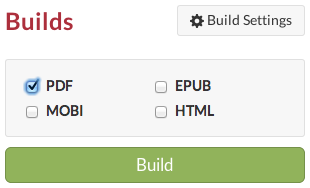
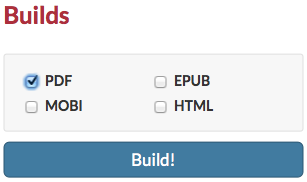
updating getting started boilerplate

diff --git a/GETTING-STARTED.html b/GETTING-STARTED.html
@@ -1,41 +1,34 @@
 <section data-type="chapter">
 <h1>Quick Start Guide</h1>
 
-<p>Atlas is currently in its Alpha release; this means that, while we feel the system is ready to be used, it's still actively under development and needs some rigorous testing. That's where you come in! Here are the most important things you need to know to get started.</p>
+<p>Atlas is currently in its Beta release; this means that, while we feel the system is ready to be used, it's still actively under development and needs some rigorous testing. That's where you come in! Here are the most important things you need to know to get started.</p>
 
 <section data-type="sect1">
-<h1>Atlas (Alpha Release) Is Built on GitHub</h1>
+<h1>Atlas (Beta Release) Is Built on Git</h1>
 
-<p>The&nbsp;alpha version of Atlas is built on <a data-original-title="" href="http://github.com" title="">GitHub</a>, one of the leading websites for collaborative file management using the <a data-original-title="" href="http://git-scm.com/" title="">git</a> version-control system. What this means for you is:</p>
-
-<ul>
-	<li><strong>You need a GitHub account</strong> in order to use Atlas (but if you've logged into Atlas by now, then you know this already).</li>
-	<li>You can see <strong>all your personal GitHub repos</strong> in Atlas, as well as all the repos you have permission to access within any organizations.</li>
-	<li><strong>All changes you make in Atlas will be reflected in GitHub, and vice versa.</strong></li>
-	<li>
-	<p><strong>You can use <a data-original-title="" href="http://git-scm.com/book/en/Git-Branching-Basic-Branching-and-Merging" title="">branches</a> in Atlas.</strong> On the project dashboard, select the branch you want to edit from the dropdown menu. (However, you cannot currently create new branches through Atlas.)</p>
-
-	<figure><img alt="Alt Text" class="icontentsimagesbranchespng" src="images/branches.png" /> <figcaption>The branches dropdown menu shows all existing branches of your project.</figcaption></figure>
-	</li>
-</ul>
+<p>The beta version of Atlas is built on <a data-original-title="" href="http://github.com" title="">Git</a>, the powerful version control system that tracks every change in your content, who made it, and when it happened. What this means is that your content is secure and can be rolled back to any previous version if necessary. Git also provides the functionality for seamless collaboration tools (coming soon!).</p>
 </section>
 
 <section data-type="sect1">
 <h1>Your Projects</h1>
 
-<p>When you sign into Atlas, <strong>the first thing you'll see is a list of all your existing GitHub repos</strong>. If you want to edit or build from an existing project in GitHub, simply find and click the project in the list. To <strong>create a new project</strong>, click the New Project button to the right of the projects list.</p>
+<p>When you sign into Atlas, <strong>the first thing you'll see is a list of all your existing projects</strong>. If you want to edit or build from an existing project, simply find and click the project in the list. To <strong>create a new project</strong>, click the New Project button to the right of the projects list.</p>
 
-<figure><img alt="Alt Text" class="icontentsimagesnewprojpng" src="images/newproj.png" /> <figcaption>Click the New Project button in your project list to start fresh.</figcaption></figure>
+<figure><img alt="Alt Text" class="icontentsimagesnewprojpng" src="images/newproj.png" />
+<figcaption>Click the New Project button in your project list to start fresh.</figcaption>
+</figure>
 
-<p>When you create a new project, <strong>Atlas will create a new <a href="http://en.wikipedia.org/wiki/Repository_(version_control)">repo</a> in your GitHub account</strong>, prepopulated with some skeleton files to help you get started. You can edit those files, delete them, or just ignore them completely and create brand-new files of your own.</p>
+<p>If you want to start from scratch, you can define the title and description for your project and choose a project template to pre-populate your new repository with some skeleton files based on the kind of project you&rsquo;re making.</p>
 
-<p>Once you select a project or create a new one, <strong>you'll be taken to the project dashboard</strong>, where you'll see a list of all files in the project, and have access to the <a data-type="xref" href="#building_in_atlas">ebook-building tools</a>.</p>
+<p>You can also create a new Atlas project by importing an existing project from GitHub or by taking advantage of Atlas&rsquo; conversion services (if included in your pilot agreement).</p>
+
+<p>Once you select a project or create a new one, <strong>you'll be taken to the project dashboard</strong>, where you'll see a list of all files in the project, and have access to the <a data-original-title="" data-type="xref" href="#building_in_atlas" title="">ebook-building tools</a>.</p>
 </section>
 
 <section data-type="sect1">
 <h1>The Project Dashboard</h1>
 
-<p><strong>The project dashboard is your landing page for each project.</strong> It lists all the files and folders in your repo, lets you switch branches, and gives you quick access to the build tools (more on building <a data-type="xref" href="#building_in_atlas">below</a>).</p>
+<p><strong>The project dashboard is your landing page for each project.</strong> It lists all the files and folders in your project and gives you quick access to the build tools (more on building <a data-type="xref" href="#building_in_atlas">below</a>).</p>
 
 <p>From the project dashboard, your next steps will likely be either to start writing or to build your project. <strong>Click a file in your Files pane at left to open it in the editor.</strong> For more about building, <a data-type="xref" href="#building_in_atlas">see below</a>.</p>
 </section>
@@ -45,7 +38,7 @@
 
 <p><strong>The Atlas editor has <a data-original-title="" data-type="xref" href="#editingenvironments" title="">two writing modes</a></strong>: the Visual Editor and the Code Editor. The Visual Editor&nbsp;is an&nbsp;online authoring environment similar to a word processor, with&nbsp;a formatting toolbar&nbsp;for tagging and styling your content. Documents created in the Visual Editor are stored as <a href="http://en.wikipedia.org/wiki/HTML5">HTML5</a>. The Code Editor allows you to view and edit the underlying HTML5 markup for your document. You can toggle back and forth between the Visual and Code Editors, and changes you make in either mode will immediately be reflected in the other.</p>
 
-<p>While <strong>HTML5 is the default markup language for Atlas content</strong>, Atlas also supports documents written in<strong style="line-height: 1.5em;">&nbsp;<a data-original-title="" data-type="xref" href="#markdownref" title="">Markdown</a>, <a href="http://www.methods.co.nz/asciidoc/">AsciiDoc</a>, and <a href="http://www.docbook.org/">DocBook XML</a></strong><span style="line-height: 1.5em;">. All three of these formats can be edited using the Code Editor.</span></p>
+<p>While <strong>HTML5 is the default markup language for Atlas content</strong>, Atlas also supports documents written in<strong style="line-height: 1.5em;">&nbsp;<a data-original-title="" data-type="xref" href="#markdownref" title="">Markdown</a>, <a href="http://www.methods.co.nz/asciidoc/">AsciiDoc</a>, and <a data-original-title="" href="http://www.docbook.org/" title="">DocBook XML</a></strong><span style="line-height: 1.5em;">. All three of these formats can be edited using the Code Editor.</span></p>
 
 <p>In both writing modes, you can <strong>navigate among&nbsp;your files using&nbsp;the Files menu</strong> to the left of the screen, <strong>create and delete files</strong> <strong>and folders</strong>,<strong> <a data-original-title="" data-type="xref" href="#addingimages" title="">upload images</a></strong>, <strong>save your project</strong> (top-right button in the editor, or use the keyboard shortcut ⌘-s/Ctrl+s)&nbsp;and even attach a <strong>custom commit message</strong> to each save (hover over the Save button to open the commit message dialog box).</p>
 </section>
@@ -53,7 +46,7 @@
 <section data-type="sect1">
 <h1>Creating a New File</h1>
 
-<p>To create a new file, open the editor (by clicking an existing file), open the Files menu, and click the New File button at bottom left. Give your file a name, and hit Enter.&nbsp;</p>
+<p>To create a new file, click the New File button at bottom of the dashboard. Give your file a name, and hit Enter. You can also do this in the Files pane in the editor.</p>
 
 <p>You can also organize your files into folders. To add a folder, click the New Folder button (next to the New File button). You can then click the folder name in the Files menu to open the folder&nbsp;and create new files within it.</p>
 
@@ -69,7 +62,7 @@
 
 <p>When you're finished writing, it's time to build your project so you can share it with the world. <strong>Atlas lets you export your project in <a data-original-title="" data-type="xref" href="#outputformats" title="">four different formats</a></strong>: <a data-original-title="" data-type="xref" href="#formatspdf" title="">PDF</a>, <a data-original-title="" data-type="xref" href="#formatsepub" title="">EPUB</a>, <a data-original-title="" data-type="xref" href="#formatsmobi" title="">MOBI</a>, and <a data-original-title="" data-type="xref" href="#formatshtml" title="">HTML website</a>.</p>
 
-<p>The first time you&nbsp;build, you'll need to choose what formats to build, and what files and settings you want to apply to each format. <strong>Click Build Settings</strong> on the project dashboard to go to the Build Settings page.</p>
+<p>The first time you&nbsp;build, you'll need to choose what formats to build, and what files and settings you want to apply to each format; <strong>click Configure</strong> on the project dashboard.</p>
 
 <p>Every format has <a data-type="xref" href="#building">a few different options</a> you can choose. Two options that are common for all formats are:</p>
 
@@ -78,11 +71,13 @@
 	<li>Collect all index tags you've added and&nbsp;create an <strong>alphabetical index</strong> in your built project. <a data-type="xref" href="#index" title="">Learn more here</a>.</li>
 </ul>
 
-<p>Choose a theme for your project (more on that next). Then at the bottom of the Build Settings page, <strong>choose which files to add to the build</strong>, drag the files into the correct order, and then start the build. If the build is successful, you'll get a link to download the file. If it fails, you'll get information about what went wrong (the usual culprit is markup errors).</p>
+<p>Choose a theme for your project (more on that next). Then at the bottom of the Configure page, <strong>choose which files to add to the build</strong>, drag the files into the correct order, and then click save. Now you can build from the dashboard.</p>
 
-<p>For subsequent builds, you can <strong>use the Quick Build tools from your project dashboard</strong>. Choose the formats you want to build, and Atlas will automatically use the same settings you initially chose on the Build Settings page.</p>
+<p>If the build is successful, you'll get a link to download the file. If it fails, you'll get information about what went wrong (the usual culprit is markup errors).</p>
 
-<figure><img alt="Alt Text" class="icontentsimagesquickbuildspng" src="images/quickbuilds.png" /> <figcaption>The Builds menu on the project dashboard allows you to quickly trigger a build using your previously chosen settings.</figcaption></figure>
+<figure><img alt="Alt Text" class="icontentsimagesquickbuildspng" src="images/quickbuilds.png" />
+<figcaption>The Builds menu on the project dashboard allows you to quickly trigger a build using your previously chosen settings.</figcaption>
+</figure>
 </section>
 
 <section data-type="sect1">
@@ -90,15 +85,17 @@
 
 <p>All of the Atlas output formats (PDF, EPUB, MOBI, and HTML) are powered by <a href="http://en.wikipedia.org/wiki/Cascading_Style_Sheets">CSS</a>, the standard styling language for the Web. You can write <a data-original-title="" data-type="xref" href="#cssthemes" title="">an entirely new theme using CSS</a>, that can be used for multiple projects, by multiple people, or you can just add <a data-original-title="" data-type="xref" href="#csscustomizations" title="">CSS customizations</a> for your specific project.</p>
 
-<p><strong>To apply a theme to your project</strong>, choose one of the default themes on the Build Settings page, or add a link to your own custom theme.</p>
+<p><strong>To apply a theme to your project</strong>, choose one of the default themes on the Configure page, or add a link to your own custom theme.</p>
 
-<figure><img alt="Alt Text" class="icontentsimagesthemepng" src="images/theme.png" /> <figcaption>Add a design to your project on the Build Settings page.</figcaption></figure>
+<figure><img alt="Alt Text" class="icontentsimagesthemepng" src="images/theme.png" />
+<figcaption>Add a design to your project on the Configure page.</figcaption>
+</figure>
 </section>
 
 <section data-type="sect1">
 <h1>Building Locally with the API</h1>
 
-<p>Atlas gives you the option to <strong>build locally on the command line</strong>, <a data-type="xref" href="#atlas-api">using our API</a>. (Note that you'll still need an internet connection for this to work.) This is great if you prefer to work locally using your own text editor&nbsp;but still want to see the final output.</p>
+<p>Atlas gives you the option to <strong>build locally on the command line</strong>, <a data-original-title="" data-type="xref" href="#atlas-api" title="">using our API</a>. (Note that you'll still need an internet connection for this to work.) This is great if you prefer to work locally using your own text editor&nbsp;but still want to see the final output.</p>
 </section>
 
 <section data-type="sect1">
